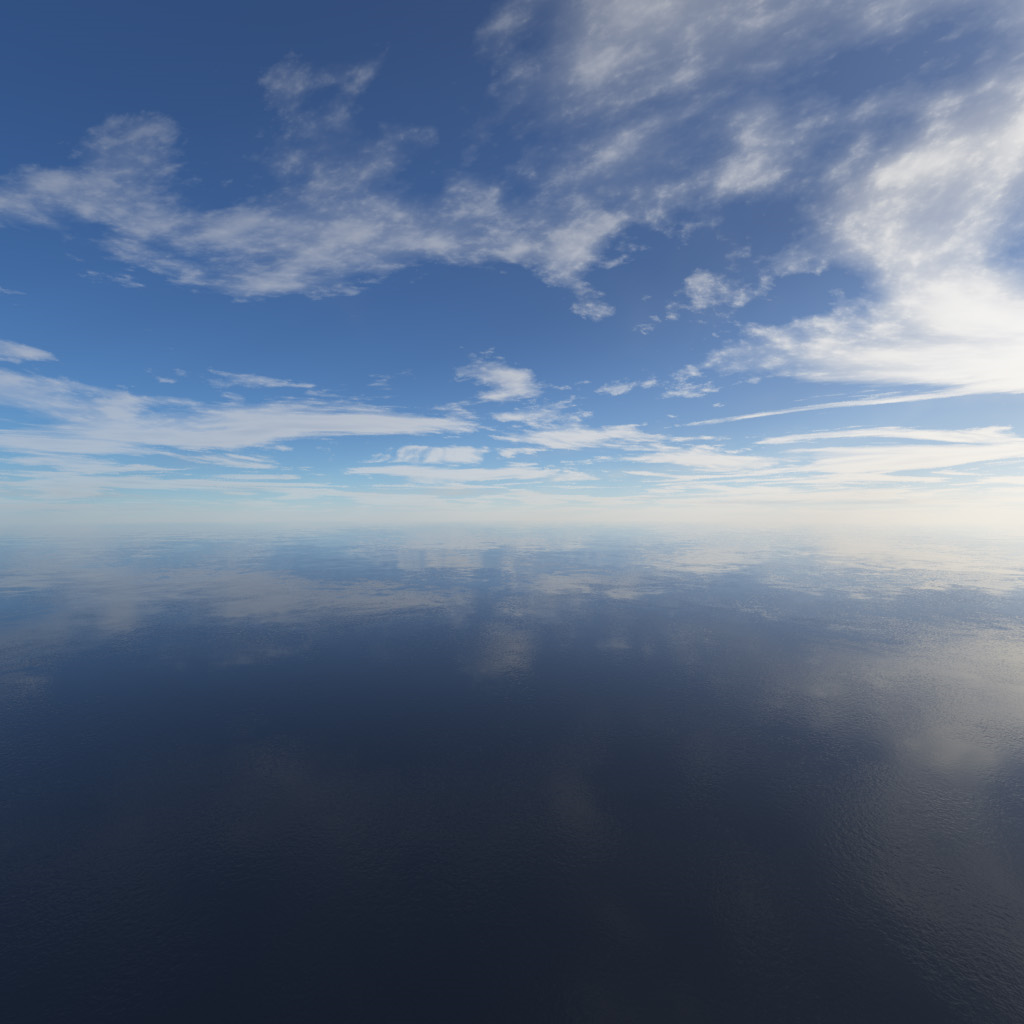
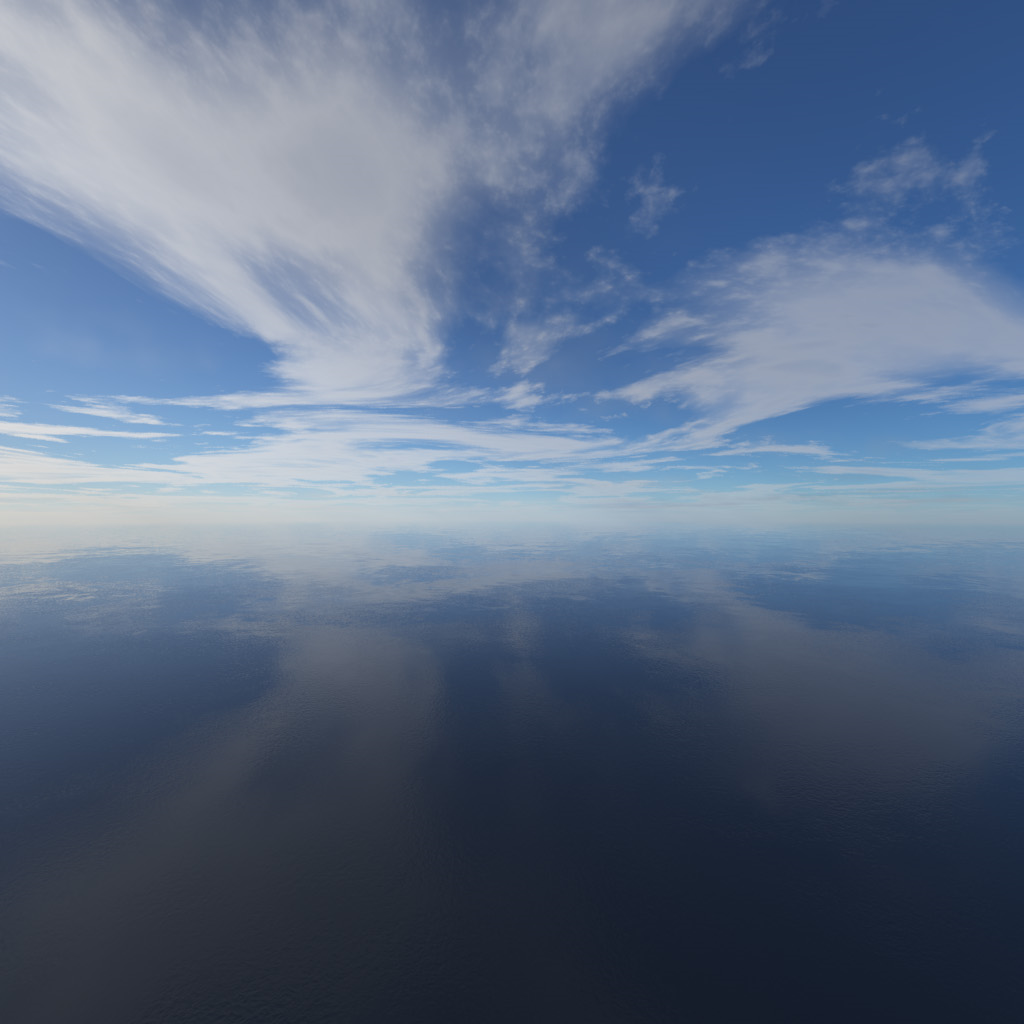
Better skybox;  Slight modification to camera controls

diff --git a/open-gl-sim/open-gl-sim/main.cpp b/open-gl-sim/open-gl-sim/main.cpp
@@ -177,12 +177,12 @@ int main() {
 
 	// Cubemap (Skybox)
 	vector<const GLchar*> faces;
-	faces.push_back("skybox/skybox3/right.jpg");
-	faces.push_back("skybox/skybox3/left.jpg");
-	faces.push_back("skybox/skybox3/top.jpg");
-	faces.push_back("skybox/skybox3/bottom.jpg");
-	faces.push_back("skybox/skybox3/back.jpg");
-	faces.push_back("skybox/skybox3/front.jpg");
+	faces.push_back("skybox/skybox2/right.png");
+	faces.push_back("skybox/skybox2/left.png");
+	faces.push_back("skybox/skybox2/top.png");
+	faces.push_back("skybox/skybox2/bottom.png");
+	faces.push_back("skybox/skybox2/back.png");
+	faces.push_back("skybox/skybox2/front.png");
 	GLuint cubemapTexture = loadCubemap(faces);
 
 	Shader skyboxShader("Shaders/Skybox/skybox.vs", "Shaders/Skybox/skybox.fs");

diff --git a/open-gl-sim/enc_temp_folder/84eb73a43bb5f8d7093bb4e382fb8e/Camera.cpp b/open-gl-sim/enc_temp_folder/84eb73a43bb5f8d7093bb4e382fb8e/Camera.cpp
@@ -74,7 +74,6 @@ void Camera::DoMovement(GLfloat timeValue)
 
 		// acceleration
 
-
 	}
 	else {
 		// Movement controls for a rotor
